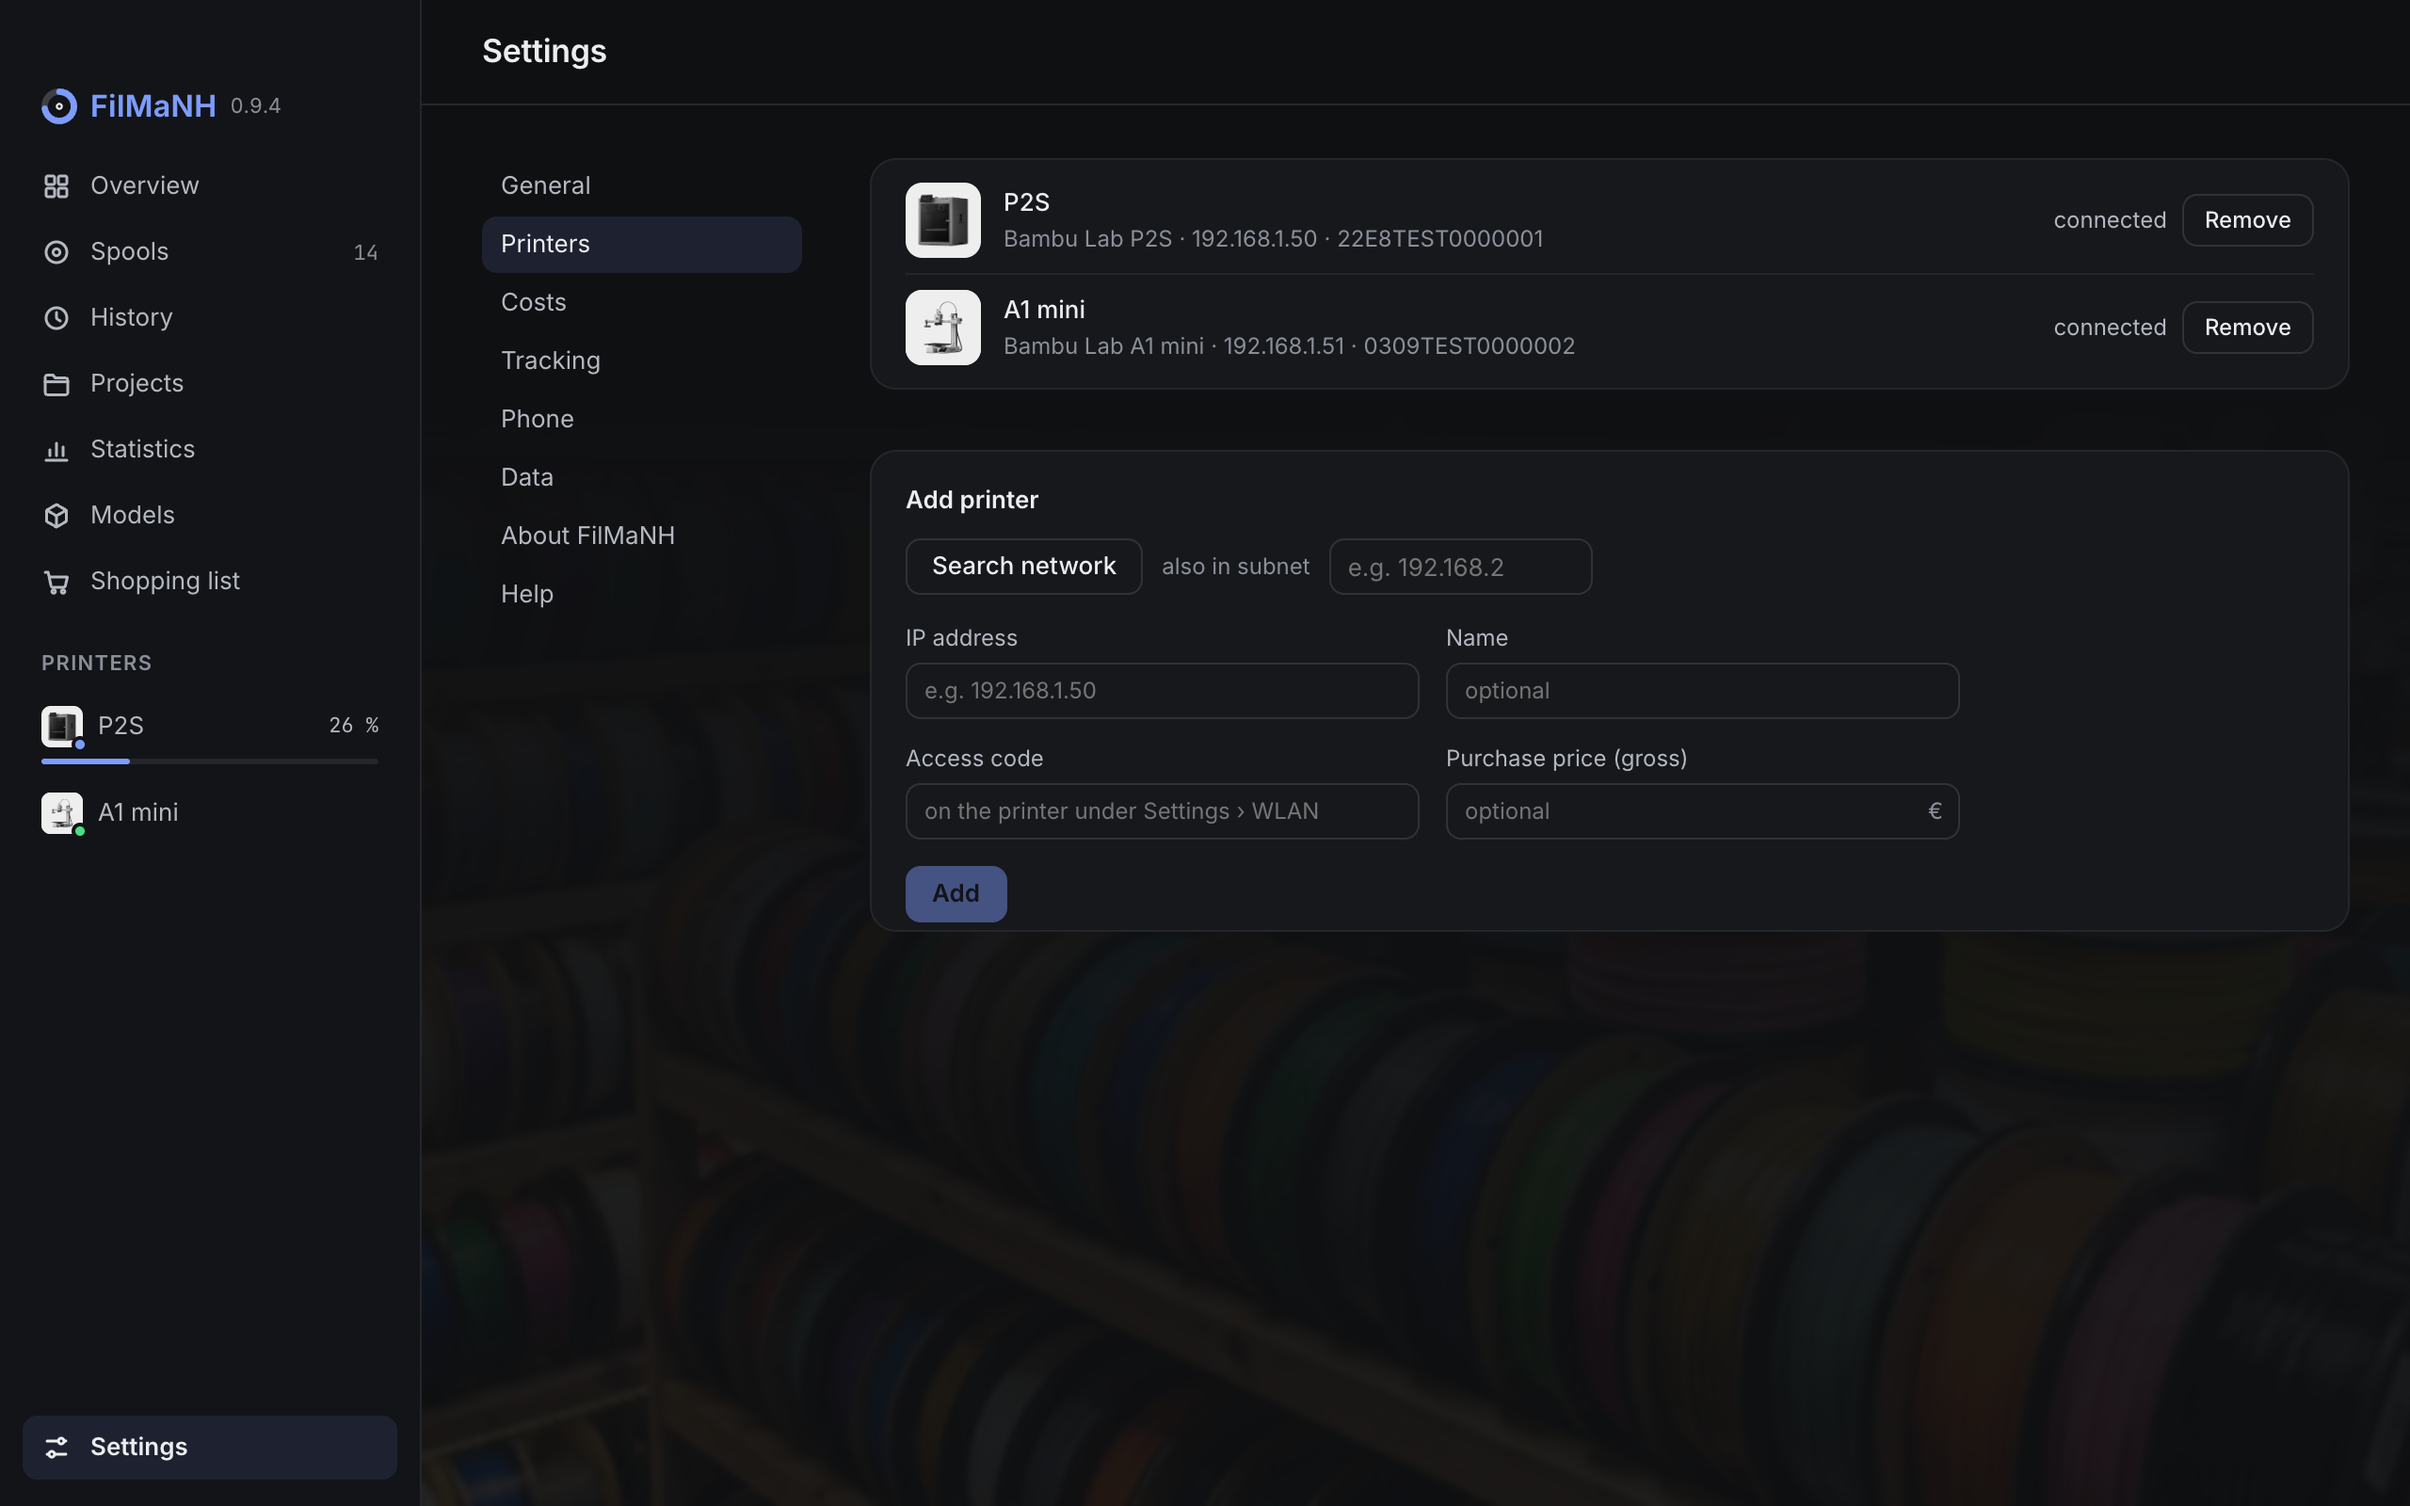
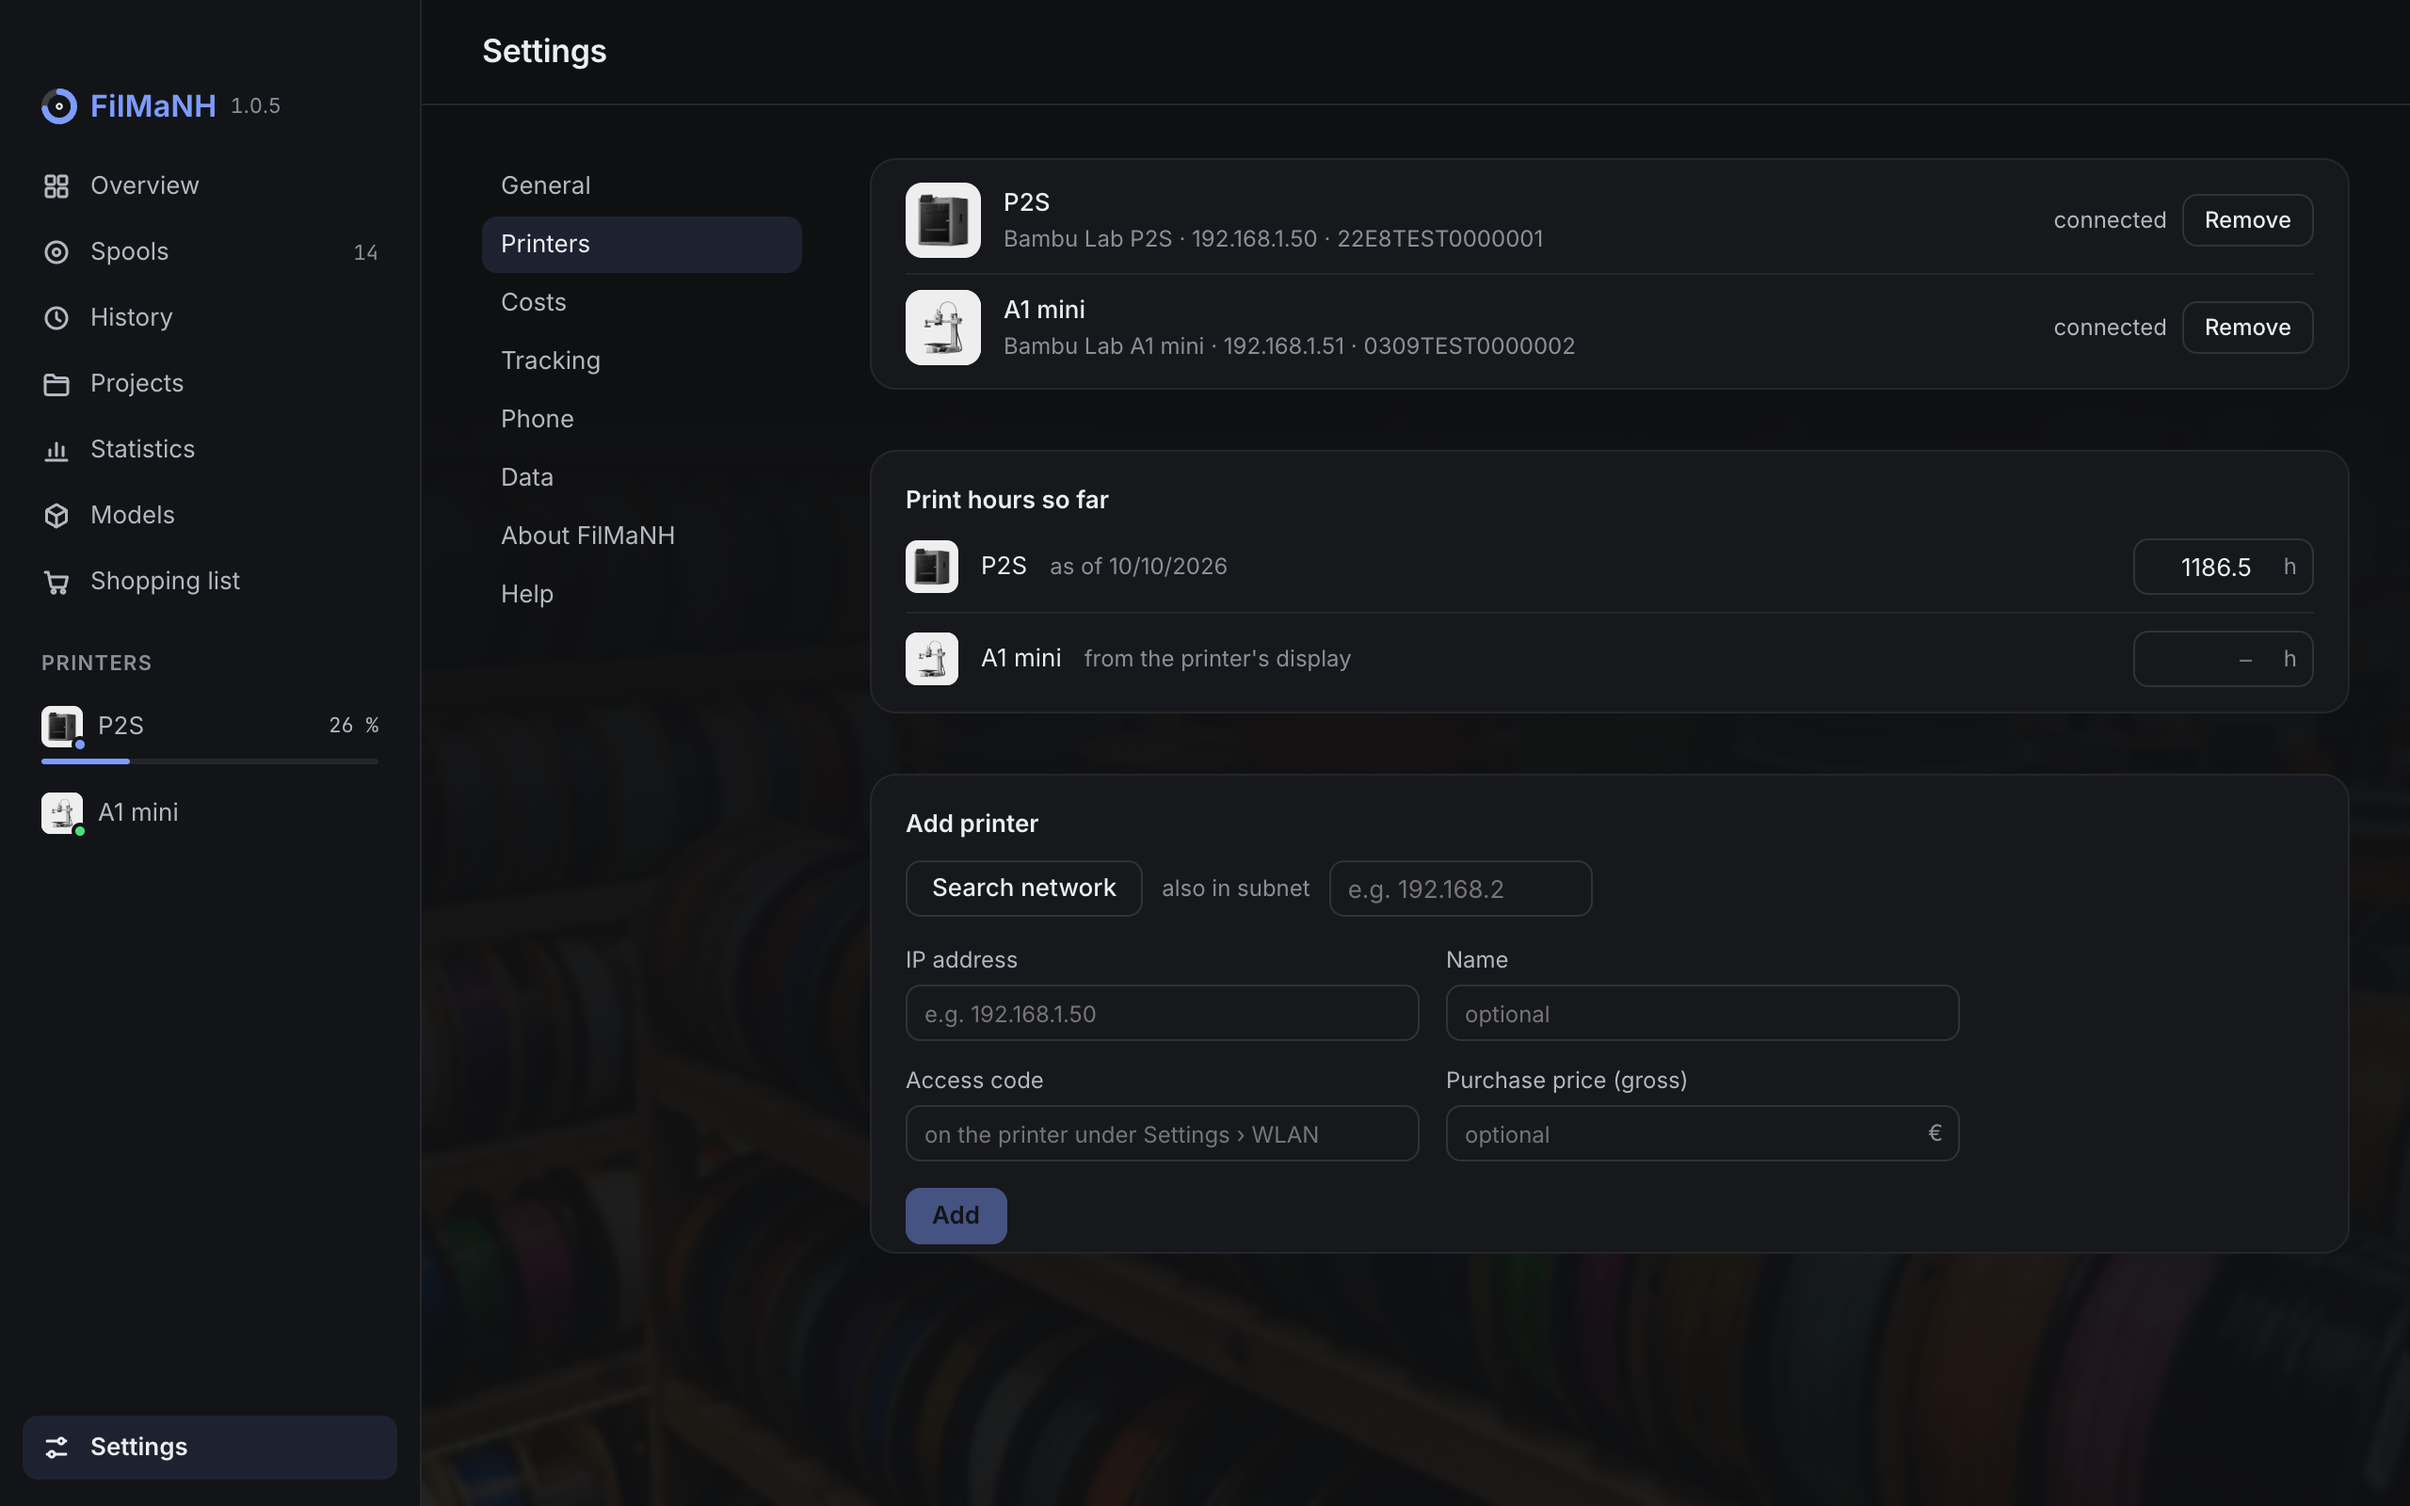
Handbuch für Version 1.0.5

diff --git a/handbuch/README.md b/handbuch/README.md
@@ -91,6 +91,7 @@ Die Einrichtung lässt sich mit **Später einrichten** überspringen und unter E
   Kosten; Hinweise zu diesem Druck (falsches Material, Spule reicht nicht) direkt darunter. Die Slots zeigen je Spule
   Nummer, Farbe und Rest: je AMS die Slots 1–4 (bei mehreren AMS mit Überschrift), abgesetzt die externe Spule. Ein
   Klick auf den Drucker öffnet ihn.
+  Rechts im Kopf der Karte: die Druckstunden gesamt.
 - **Zuletzt gedruckt** mit Menge und Kosten.
 - **Zu erledigen** rechts: alles, was Aufmerksamkeit braucht – Druck mit offenem Ende, Slots, die nicht zur Meldung des
   Druckers passen ([Abgleich mit dem Drucker](#abgleich-mit-dem-drucker)), fällige [Wartung](#wartung), Feuchte,
@@ -226,6 +227,10 @@ Beim Druckstart prüft FilMaNH:
 Weiter unten: das AMS mit Slots, Feuchte und Temperatur, der Feuchteverlauf der letzten 7 Tage und die externe
 Spule. H2D und H2C haben zwei externe Halter (links und rechts); ein leerer, nicht zugeordneter wird nicht gezeigt. Eine Spule aus **Spulen im Regal** auf einen Slot ziehen ordnet sie zu. Darunter stehen alle Drucke dieses
 Druckers. **Einrichtung** oben rechts führt zu den Druckereinstellungen.
+
+**Live** oben rechts zeigt das Kamerabild, solange die Seite offen ist; in der Übersicht öffnet **Live** an der
+Druckerkarte die Seite gleich mit Bild. X1, H2D, H2S, H2C und P2S liefern Video, A1, A1 mini und P1S Einzelbilder. Für
+Video muss am Drucker **LAN Mode Liveview** eingeschaltet sein (Einstellungen am Drucker, oft ab Werk aus) – sonst sagt FilMaNH das. FilMaNH sieht nur zu und ändert am Drucker nichts.
 
 ### Spule zuordnen
 
@@ -413,6 +418,8 @@ Start mit dem Rechner (empfohlen), Mitteilungen (Druck fertig, Spule reicht nich
 
 **Drucker:** verbundene Drucker; weitere Drucker suchen oder per IP-Adresse hinzufügen, auf Wunsch gleich mit
 **Kaufpreis**.
+**Druckstunden bisher:** je Drucker der Wert vom Display. Die Druckstunden gesamt (Übersicht, Seite des
+Druckers) sind dieser Wert plus die danach erfassten Drucke; ohne Wert nur die von FilMaNH erfassten.
 
 ![Drucker-Einstellungen](bilder/22-einst-drucker.png)
 

diff --git a/handbook/README.md b/handbook/README.md
@@ -90,6 +90,7 @@ Finally, FilMaNH asks for the **electricity price** per kWh (for the electricity
   estimated cost; notices about this print (wrong material, spool won’t last) right below. The slots show number,
   colour and remaining amount of each spool: slots 1–4 per AMS (with a heading when there are several), the external
   spool set apart. Click a printer to open it.
+  Top right of the card: total print hours.
 - **Recently printed** with amount and cost.
 - **To do** on the right: everything that needs your attention – a print whose end is unknown, slots that don’t match
   what the printer reports ([Matching with the printer](#matching-with-the-printer)), [maintenance](#maintenance) that
@@ -226,6 +227,10 @@ When a print starts, FilMaNH checks:
 Further down: the AMS with its slots, humidity and temperature, the humidity of the last 7 days and the external
 spool. H2D and H2C have two external holders (left and right); an empty one without an assigned spool is not shown. Drag a spool from **Spools on the shelf** onto a slot to assign it. Below are all prints of this printer.
 **Setup** at the top right opens the printer settings.
+
+**Live** at the top right shows the camera image while the page is open; on the Overview, **Live** on the printer
+card opens the page with the image right away. X1, H2D, H2S, H2C and P2S deliver video, A1, A1 mini and P1S still
+images. For video, **LAN Mode Liveview** must be on at the printer (printer settings; often off by default) – otherwise FilMaNH tells you. FilMaNH only watches and changes nothing on the printer.
 
 ### Assign a spool
 
@@ -411,6 +416,8 @@ login (recommended), Notifications (print finished, spool will run out, new spoo
 
 **Printers:** connected printers; search for more printers or add one by IP address, optionally with its **purchase
 price**.
+**Print hours so far:** per printer, the value from its display. Total print hours (overview, printer page) are
+this value plus the prints recorded since; without a value, only those recorded by FilMaNH.
 
 ![Printer settings](images/22-einst-drucker.png)
 
